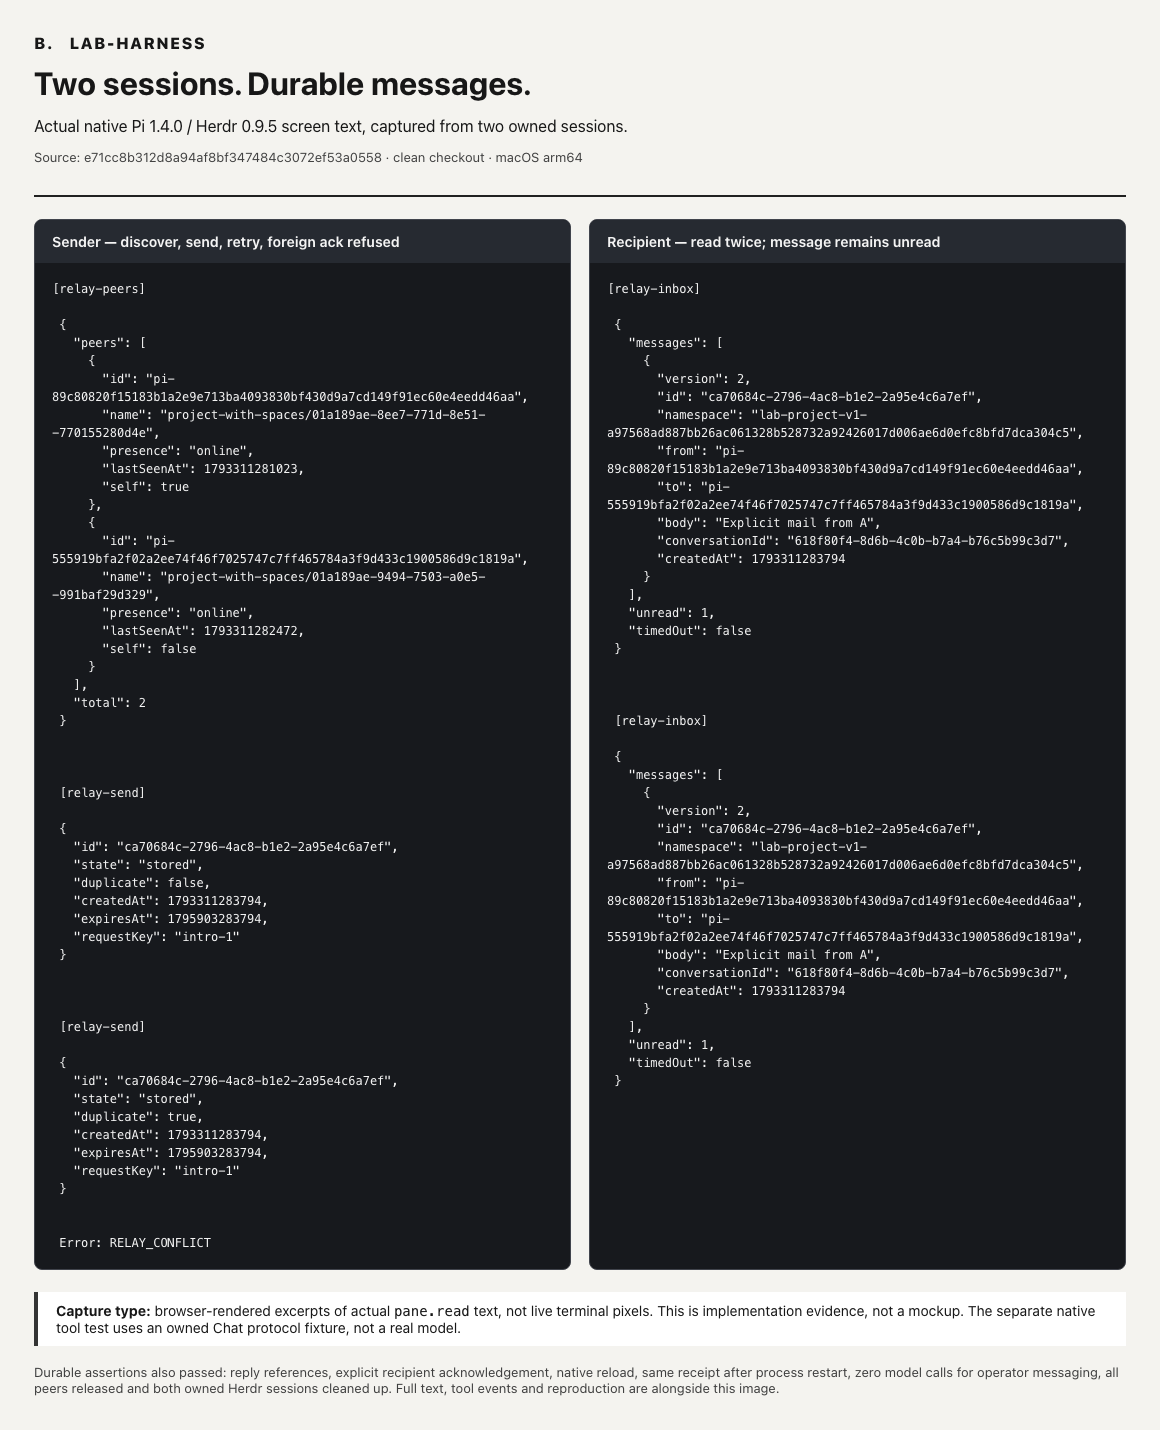
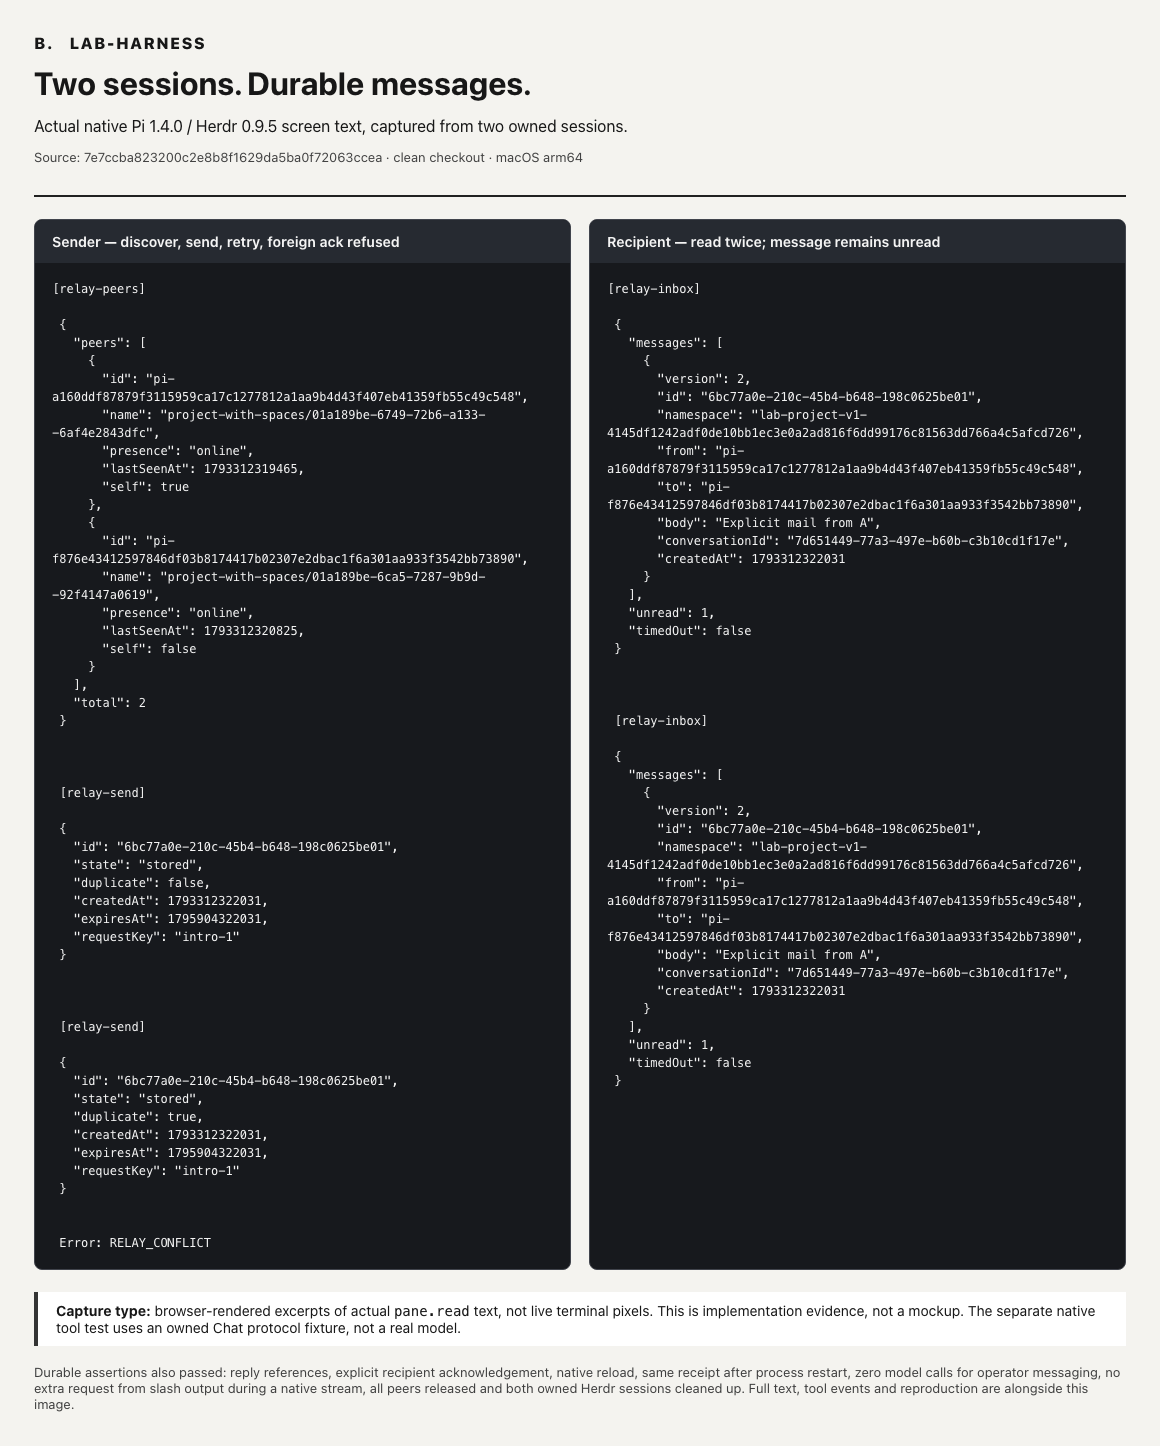
test: fence the readonly observer WAL startup window and record stream regression

diff --git a/docs/evidence/relay-workspace.html b/docs/evidence/relay-workspace.html
@@ -1,19 +1,19 @@
-<!doctype html><html lang="en"><meta charset="utf-8"><title>LAB built-in Relay evidence</title><style>*{box-sizing:border-box}body{margin:0;background:#f4f3ef;color:#171717;font:16px system-ui}main{max-width:1200px;margin:auto;padding:34px}header{border-bottom:2px solid #202020;padding-bottom:20px}.brand{font-weight:850;letter-spacing:.1em}h1{font-size:32px;margin:12px 0}p{line-height:1.55;margin:8px 0}.meta{font-size:13px;color:#424242}.grid{display:grid;grid-template-columns:1fr 1fr;gap:18px;margin:22px 0}.pane{background:#17191d;color:#f4f4f4;border:1px solid #41444c;border-radius:8px;overflow:hidden}.label{padding:13px 17px;background:#262a31;font-size:14px;font-weight:650}pre{font:12px/1.5 ui-monospace,SFMono-Regular,Consolas,monospace;white-space:pre-wrap;overflow-wrap:anywhere;margin:0;padding:17px}.note{border-left:4px solid #343434;padding:10px 18px;background:white;font-size:14px}footer{margin-top:18px;font-size:13px;color:#3f3f3f}</style><main><header><div class="brand">B. &nbsp; LAB-HARNESS</div><h1>Two sessions. Durable messages.</h1><p>Actual native Pi 1.4.0 / Herdr 0.9.5 screen text, captured from two owned sessions.</p><p class="meta">Source: e71cc8b312d8a94af8bf347484c3072ef53a0558 · clean checkout · macOS arm64</p></header><div class="grid"><section class="pane"><div class="label">Sender — discover, send, retry, foreign ack refused</div><pre>[relay-peers]
+<!doctype html><html lang="en"><meta charset="utf-8"><title>LAB built-in Relay evidence</title><style>*{box-sizing:border-box}body{margin:0;background:#f4f3ef;color:#171717;font:16px system-ui}main{max-width:1200px;margin:auto;padding:34px}header{border-bottom:2px solid #202020;padding-bottom:20px}.brand{font-weight:850;letter-spacing:.1em}h1{font-size:32px;margin:12px 0}p{line-height:1.55;margin:8px 0}.meta{font-size:13px;color:#424242}.grid{display:grid;grid-template-columns:1fr 1fr;gap:18px;margin:22px 0}.pane{background:#17191d;color:#f4f4f4;border:1px solid #41444c;border-radius:8px;overflow:hidden}.label{padding:13px 17px;background:#262a31;font-size:14px;font-weight:650}pre{font:12px/1.5 ui-monospace,SFMono-Regular,Consolas,monospace;white-space:pre-wrap;overflow-wrap:anywhere;margin:0;padding:17px}.note{border-left:4px solid #343434;padding:10px 18px;background:white;font-size:14px}footer{margin-top:18px;font-size:13px;color:#3f3f3f}</style><main><header><div class="brand">B. &nbsp; LAB-HARNESS</div><h1>Two sessions. Durable messages.</h1><p>Actual native Pi 1.4.0 / Herdr 0.9.5 screen text, captured from two owned sessions.</p><p class="meta">Source: 7e7ccba823200c2e8b8f1629da5ba0f72063ccea · clean checkout · macOS arm64</p></header><div class="grid"><section class="pane"><div class="label">Sender — discover, send, retry, foreign ack refused</div><pre>[relay-peers]
 
  {
    &quot;peers&quot;: [
      {
-       &quot;id&quot;: &quot;pi-89c80820f15183b1a2e9e713ba4093830bf430d9a7cd149f91ec60e4eedd46aa&quot;,
-       &quot;name&quot;: &quot;project-with-spaces/01a189ae-8ee7-771d-8e51--770155280d4e&quot;,
+       &quot;id&quot;: &quot;pi-a160ddf87879f3115959ca17c1277812a1aa9b4d43f407eb41359fb55c49c548&quot;,
+       &quot;name&quot;: &quot;project-with-spaces/01a189be-6749-72b6-a133--6af4e2843dfc&quot;,
        &quot;presence&quot;: &quot;online&quot;,
-       &quot;lastSeenAt&quot;: 1793311281023,
+       &quot;lastSeenAt&quot;: 1793312319465,
        &quot;self&quot;: true
      },
      {
-       &quot;id&quot;: &quot;pi-555919bfa2f02a2ee74f46f7025747c7ff465784a3f9d433c1900586d9c1819a&quot;,
-       &quot;name&quot;: &quot;project-with-spaces/01a189ae-9494-7503-a0e5--991baf29d329&quot;,
+       &quot;id&quot;: &quot;pi-f876e43412597846df03b8174417b02307e2dbac1f6a301aa933f3542bb73890&quot;,
+       &quot;name&quot;: &quot;project-with-spaces/01a189be-6ca5-7287-9b9d--92f4147a0619&quot;,
        &quot;presence&quot;: &quot;online&quot;,
-       &quot;lastSeenAt&quot;: 1793311282472,
+       &quot;lastSeenAt&quot;: 1793312320825,
        &quot;self&quot;: false
      }
    ],
@@ -25,11 +25,11 @@
  [relay-send]
 
  {
-   &quot;id&quot;: &quot;ca70684c-2796-4ac8-b1e2-2a95e4c6a7ef&quot;,
+   &quot;id&quot;: &quot;6bc77a0e-210c-45b4-b648-198c0625be01&quot;,
    &quot;state&quot;: &quot;stored&quot;,
    &quot;duplicate&quot;: false,
-   &quot;createdAt&quot;: 1793311283794,
-   &quot;expiresAt&quot;: 1795903283794,
+   &quot;createdAt&quot;: 1793312322031,
+   &quot;expiresAt&quot;: 1795904322031,
    &quot;requestKey&quot;: &quot;intro-1&quot;
  }
 
@@ -38,11 +38,11 @@
  [relay-send]
 
  {
-   &quot;id&quot;: &quot;ca70684c-2796-4ac8-b1e2-2a95e4c6a7ef&quot;,
+   &quot;id&quot;: &quot;6bc77a0e-210c-45b4-b648-198c0625be01&quot;,
    &quot;state&quot;: &quot;stored&quot;,
    &quot;duplicate&quot;: true,
-   &quot;createdAt&quot;: 1793311283794,
-   &quot;expiresAt&quot;: 1795903283794,
+   &quot;createdAt&quot;: 1793312322031,
+   &quot;expiresAt&quot;: 1795904322031,
    &quot;requestKey&quot;: &quot;intro-1&quot;
  }
 
@@ -53,13 +53,13 @@
    &quot;messages&quot;: [
      {
        &quot;version&quot;: 2,
-       &quot;id&quot;: &quot;ca70684c-2796-4ac8-b1e2-2a95e4c6a7ef&quot;,
-       &quot;namespace&quot;: &quot;lab-project-v1-a97568ad887bb26ac061328b528732a92426017d006ae6d0efc8bfd7dca304c5&quot;,
-       &quot;from&quot;: &quot;pi-89c80820f15183b1a2e9e713ba4093830bf430d9a7cd149f91ec60e4eedd46aa&quot;,
-       &quot;to&quot;: &quot;pi-555919bfa2f02a2ee74f46f7025747c7ff465784a3f9d433c1900586d9c1819a&quot;,
+       &quot;id&quot;: &quot;6bc77a0e-210c-45b4-b648-198c0625be01&quot;,
+       &quot;namespace&quot;: &quot;lab-project-v1-4145df1242adf0de10bb1ec3e0a2ad816f6dd99176c81563dd766a4c5afcd726&quot;,
+       &quot;from&quot;: &quot;pi-a160ddf87879f3115959ca17c1277812a1aa9b4d43f407eb41359fb55c49c548&quot;,
+       &quot;to&quot;: &quot;pi-f876e43412597846df03b8174417b02307e2dbac1f6a301aa933f3542bb73890&quot;,
        &quot;body&quot;: &quot;Explicit mail from A&quot;,
-       &quot;conversationId&quot;: &quot;618f80f4-8d6b-4c0b-b7a4-b76c5b99c3d7&quot;,
-       &quot;createdAt&quot;: 1793311283794
+       &quot;conversationId&quot;: &quot;7d651449-77a3-497e-b60b-c3b10cd1f17e&quot;,
+       &quot;createdAt&quot;: 1793312322031
      }
    ],
    &quot;unread&quot;: 1,
@@ -74,15 +74,15 @@
    &quot;messages&quot;: [
      {
        &quot;version&quot;: 2,
-       &quot;id&quot;: &quot;ca70684c-2796-4ac8-b1e2-2a95e4c6a7ef&quot;,
-       &quot;namespace&quot;: &quot;lab-project-v1-a97568ad887bb26ac061328b528732a92426017d006ae6d0efc8bfd7dca304c5&quot;,
-       &quot;from&quot;: &quot;pi-89c80820f15183b1a2e9e713ba4093830bf430d9a7cd149f91ec60e4eedd46aa&quot;,
-       &quot;to&quot;: &quot;pi-555919bfa2f02a2ee74f46f7025747c7ff465784a3f9d433c1900586d9c1819a&quot;,
+       &quot;id&quot;: &quot;6bc77a0e-210c-45b4-b648-198c0625be01&quot;,
+       &quot;namespace&quot;: &quot;lab-project-v1-4145df1242adf0de10bb1ec3e0a2ad816f6dd99176c81563dd766a4c5afcd726&quot;,
+       &quot;from&quot;: &quot;pi-a160ddf87879f3115959ca17c1277812a1aa9b4d43f407eb41359fb55c49c548&quot;,
+       &quot;to&quot;: &quot;pi-f876e43412597846df03b8174417b02307e2dbac1f6a301aa933f3542bb73890&quot;,
        &quot;body&quot;: &quot;Explicit mail from A&quot;,
-       &quot;conversationId&quot;: &quot;618f80f4-8d6b-4c0b-b7a4-b76c5b99c3d7&quot;,
-       &quot;createdAt&quot;: 1793311283794
+       &quot;conversationId&quot;: &quot;7d651449-77a3-497e-b60b-c3b10cd1f17e&quot;,
+       &quot;createdAt&quot;: 1793312322031
      }
    ],
    &quot;unread&quot;: 1,
    &quot;timedOut&quot;: false
- }</pre></section></div><div class="note"><strong>Capture type:</strong> browser-rendered excerpts of actual <code>pane.read</code> text, not live terminal pixels. This is implementation evidence, not a mockup. The separate native tool test uses an owned Chat protocol fixture, not a real model.</div><footer>Durable assertions also passed: reply references, explicit recipient acknowledgement, native reload, same receipt after process restart, zero model calls for operator messaging, all peers released and both owned Herdr sessions cleaned up. Full text, tool events and reproduction are alongside this image.</footer></main></html>
+ }</pre></section></div><div class="note"><strong>Capture type:</strong> browser-rendered excerpts of actual <code>pane.read</code> text, not live terminal pixels. This is implementation evidence, not a mockup. The separate native tool test uses an owned Chat protocol fixture, not a real model.</div><footer>Durable assertions also passed: reply references, explicit recipient acknowledgement, native reload, same receipt after process restart, zero model calls for operator messaging, no extra request from slash output during a native stream, all peers released and both owned Herdr sessions cleaned up. Full text, tool events and reproduction are alongside this image.</footer></main></html>

diff --git a/tests/relay-pi-actual.test.ts b/tests/relay-pi-actual.test.ts
@@ -1,6 +1,6 @@
 import { expect, test } from "bun:test";
 import { Database } from "bun:sqlite";
-import { mkdirSync, mkdtempSync, readdirSync, readFileSync, lstatSync, existsSync, writeFileSync, rmSync } from "node:fs";
+import { mkdirSync, mkdtempSync, readdirSync, readFileSync, lstatSync, existsSync, writeFileSync, rmSync, openSync, readSync, closeSync } from "node:fs";
 import { homedir } from "node:os";
 import { join, resolve } from "node:path";
 import { verifyPiRuntime } from "../src/runtime/pi.ts";
@@ -13,11 +13,11 @@ const actual = process.env.LAB_HERDR_ACTUAL === "1" ? test : test.skip;
 const pause = (ms: number) => new Promise(done => setTimeout(done, ms));
 const source = resolve(import.meta.dir, "..");
 type Peer = { session_id: string; peer_id: string; name: string; generation: number; phase: string; lease_until: number };
-function committedPeerRows(db: Database): Peer[] {
+function committedPeerRows(db: Database, path: string, readiness: { seenSession: boolean }): Peer[] {
   // This is a read-only observer, not a production Relay opener. A freshly
   // created control inode precedes its schema transaction's commit. Observe
   // markers/schema/data in one snapshot, and retry only that exact empty state.
-  return db.transaction(() => {
+  try { const rows = db.transaction(() => {
     const app = (db.query("PRAGMA application_id").get() as { application_id: number }).application_id;
     const version = (db.query("PRAGMA user_version").get() as { user_version: number }).user_version;
     const tables = db.query("SELECT name FROM sqlite_master WHERE name NOT LIKE 'sqlite_%'").all() as { name: string }[];
@@ -25,22 +25,45 @@ function committedPeerRows(db: Database): Peer[] {
     if (app !== 0x4c525931 || version !== 1 || !tables.some(table => table.name === "sessions")) throw new Error("Unexpected committed Relay observer schema");
     return db.query("SELECT session_id,peer_id,name,generation,phase,lease_until FROM sessions ORDER BY session_id").all() as Peer[];
   }).deferred();
+    if (rows.length) readiness.seenSession = true;
+    return rows;
+  } catch (error) {
+    // A readonly handle opened before WAL activation cannot create the first
+    // WAL sidecars. Retry only this initial, marked, header-confirmed window;
+    // all other SQLite failures and every post-readiness failure propagate.
+    const sqlite = error as { code?: string; errno?: number };
+    if (!readiness.seenSession && sqlite.code === "SQLITE_CANTOPEN" && sqlite.errno === 14) {
+      const header = Buffer.alloc(100), fd = openSync(path, "r");
+      let count: number;
+      try { count = readSync(fd, header, 0, 100, 0); } finally { closeSync(fd); }
+      if (count === 100 && header.subarray(0, 16).toString() === "SQLite format 3\0" && header[18] === 2 && header[19] === 2
+        && header.readUInt32BE(60) === 1 && header.readUInt32BE(68) === 0x4c525931
+        && (!existsSync(path + "-wal") || !existsSync(path + "-shm"))) return [];
+    }
+    throw error;
+  }
 }
-test("readonly session observer waits for the schema commit and refuses foreign/partial committed schemas", () => {
+test("readonly observer waits for schema commit and first WAL sidecars, refusing foreign/partial schemas", () => {
   const root = mkdtempSync(join(homedir(), ".lab-relay-observer-")), path = join(root, "control.sqlite");
   const writer = new Database(path);
   writer.exec("PRAGMA user_version=0");
   const observer = new Database(path, { readonly: true, strict: true });
+  const readiness = { seenSession: false }, rows = () => committedPeerRows(observer, path, readiness);
   try {
-    expect(committedPeerRows(observer)).toEqual([]);
+    expect(rows()).toEqual([]);
     writer.exec("BEGIN IMMEDIATE; CREATE TABLE sessions(session_id TEXT,peer_id TEXT,name TEXT,generation INTEGER,phase TEXT,lease_until INTEGER); PRAGMA application_id=1280465201; PRAGMA user_version=1; INSERT INTO sessions VALUES ('fixture-session','fixture-peer','fixture',0,'active',123)");
-    expect(committedPeerRows(observer)).toEqual([]); // Schema is uncommitted.
+    expect(rows()).toEqual([]); // Schema is uncommitted.
     writer.exec("COMMIT");
-    expect(committedPeerRows(observer)).toEqual([{ session_id: "fixture-session", peer_id: "fixture-peer", name: "fixture", generation: 0, phase: "active", lease_until: 123 }]);
+    writer.exec("PRAGMA journal_mode=WAL");
+    expect(existsSync(path + "-shm")).toBe(false);
+    expect(rows()).toEqual([]); // Marked WAL header, sidecars not yet published.
+    writer.exec("UPDATE sessions SET lease_until=124");
+    expect(rows()).toEqual([{ session_id: "fixture-session", peer_id: "fixture-peer", name: "fixture", generation: 0, phase: "active", lease_until: 124 }]);
+    expect(readiness.seenSession).toBe(true);
     writer.exec("PRAGMA application_id=7");
-    expect(() => committedPeerRows(observer)).toThrow("Unexpected committed");
+    expect(() => rows()).toThrow("Unexpected committed");
     writer.exec("PRAGMA application_id=1280465201; DROP TABLE sessions");
-    expect(() => committedPeerRows(observer)).toThrow("Unexpected committed");
+    expect(() => rows()).toThrow("Unexpected committed");
   } finally { observer.close(); writer.close(); rmSync(root, { recursive: true, force: true }); }
 });
 function ownedServerSockets(fields: string): string[] {
@@ -96,6 +119,7 @@ actual("two owned Pi TUIs automatically message/reply, read without ack, refuse 
   let store: ReturnType<typeof createMessageStore> | undefined;
   let control: Database | undefined;
   let namespace = "", busRoot = "";
+  const observerReadiness = { seenSession: false };
   const evidence = join(source, ".tmp", "relay-pi-actual-" + root.slice(-6));
   mkdirSync(evidence, { recursive: true, mode: 0o700 });
   function rows(): Peer[] {
@@ -109,7 +133,7 @@ actual("two owned Pi TUIs automatically message/reply, read without ack, refuse 
       if (!entry || entry.size === 0) return []; // Owned initial inode, no committed SQLite header yet.
       control = new Database(path, { readonly: true, strict: true });
     }
-    return committedPeerRows(control);
+    return committedPeerRows(control, join(busRoot, "control.sqlite"), observerReadiness);
   }
   async function wait(check: () => boolean, label: string, ms = 12000) {
     const until = Date.now() + ms;
